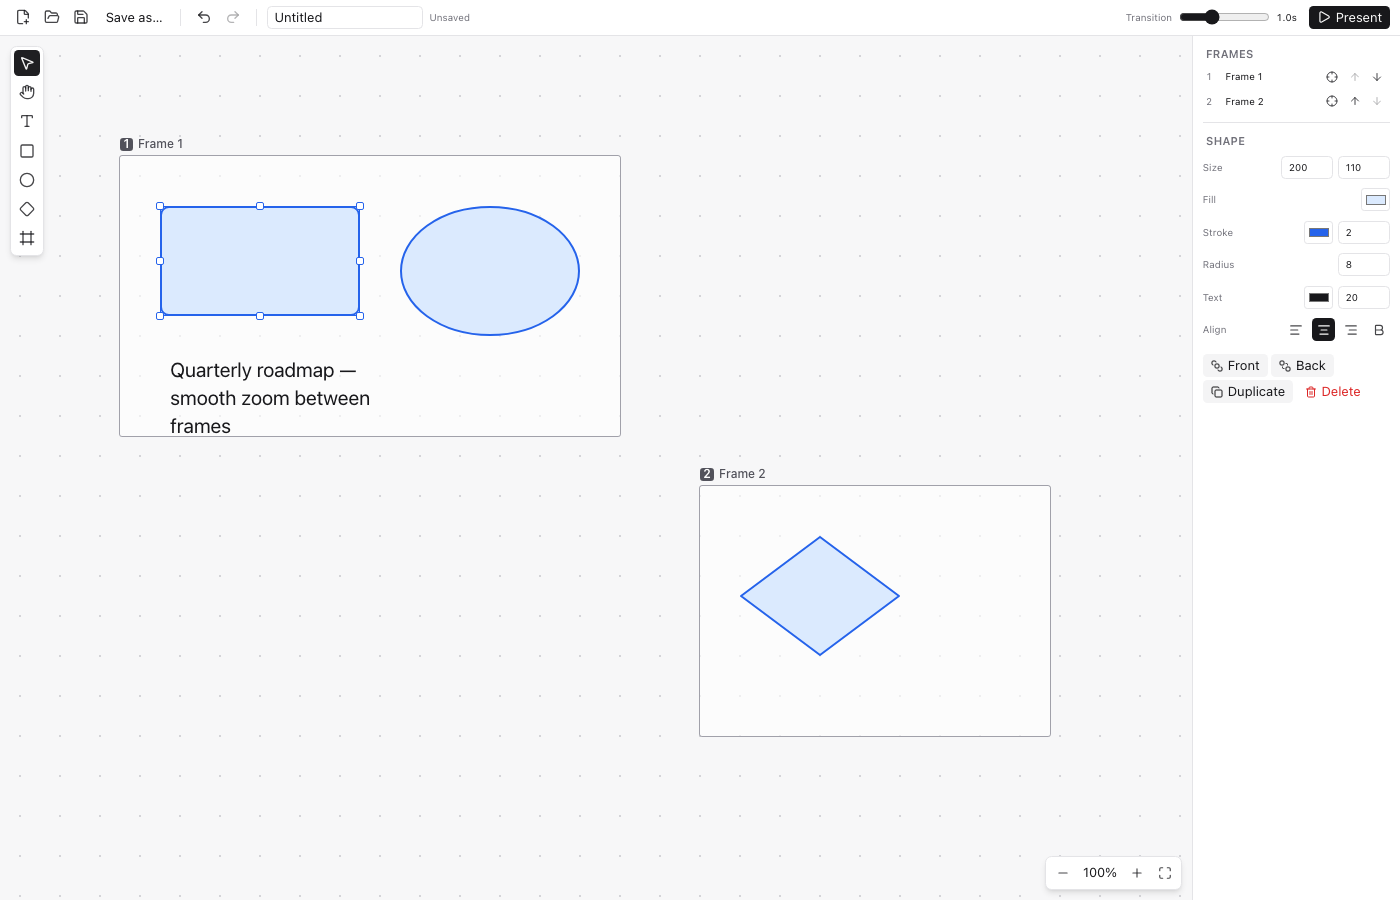
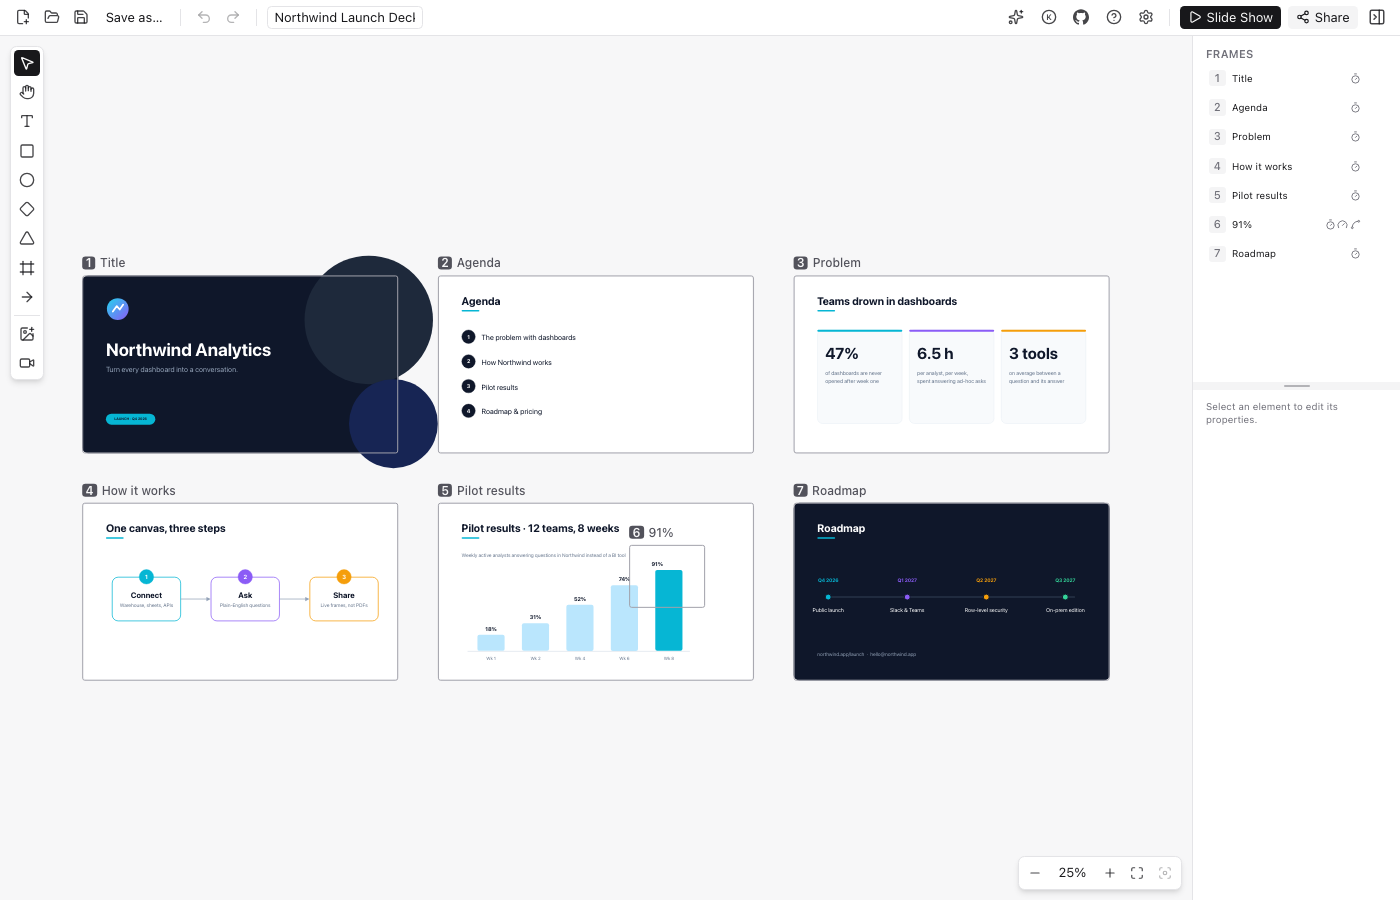
Refresh the editor screenshots from the current app
website/public/images/editor.png and present.png still showed an early prototype with a "Present"
button. The script that made them, tests/tools/screenshot-demo.mjs, was referenced nowhere and no
longer ran against the current UI, and docs/screenshots/ held unreferenced copies of the same images.

website/scripts/prepare-screenshots.ts starts the web editor with Vite, opens the Northwind launch
deck from the example catalog and captures the editor and the slideshow with its controls shown. Both
images are regenerated with it; the old script and the unreferenced copies are removed.

diff --git a/website/scripts/prepare-screenshots.ts b/website/scripts/prepare-screenshots.ts
@@ -1,0 +1,56 @@
+import { resolve } from 'node:path'
+import { chromium, expect } from '@playwright/test'
+import { createServer } from 'vite'
+
+const root = resolve(import.meta.dirname, '../..')
+const output = resolve(root, 'website/public/images')
+const server = await createServer({
+  configFile: resolve(root, 'config/vite.config.ts'),
+  server: { port: 0, strictPort: false },
+  logLevel: 'warn'
+})
+await server.listen()
+const baseURL = server.resolvedUrls?.local[0]
+if (!baseURL) {
+  throw new Error('The editor dev server has no local URL')
+}
+const browser = await chromium.launch()
+try {
+  const page = await browser.newPage({
+    baseURL,
+    viewport: { width: 1400, height: 900 },
+    locale: 'en-US',
+    colorScheme: 'light',
+    reducedMotion: 'reduce'
+  })
+  await page.goto('./?example=slides')
+  await expect(page.getByRole('textbox', { name: 'Document name' })).toHaveValue(
+    'Northwind Launch Deck',
+    { timeout: 30_000 }
+  )
+  await page.evaluate(() => document.fonts.ready)
+  await page.screenshot({ path: resolve(output, 'editor.png'), animations: 'disabled' })
+  await page.getByRole('button', { name: 'Slide Show', exact: true }).click()
+  await expect(page.getByTestId('presentation-counter')).toContainText('1 / ')
+  // Why poll: the slideshow opens on the whole canvas and only then moves to the first frame.
+  const world = page.getByTestId('world-layer')
+  let settled = ''
+  await expect
+    .poll(
+      async () => {
+        const transform = await world.evaluate((element) => element.style.transform)
+        const stable = transform === settled
+        settled = transform
+        return stable
+      },
+      { intervals: [500] }
+    )
+    .toBe(true)
+  // Why the bottom edge: controls start hidden and only that edge or Tab reveals them.
+  await page.mouse.move(10, 896)
+  await expect(page.getByTestId('presentation-controls')).toBeVisible()
+  await page.screenshot({ path: resolve(output, 'present.png'), animations: 'disabled' })
+} finally {
+  await browser.close()
+  await server.close()
+}

diff --git a/website/README.md b/website/README.md
@@ -102,6 +102,13 @@ node website/scripts/prepare-examples.ts
 
 The preparation script uses Playwright Chromium to capture the same exports, including a full-resolution crop of the results slide for the detail demonstration. It waits for camera motion to settle before capturing and records only whole slides, not detail frames nested inside them, as overview regions.
 
+The editor and slideshow screenshots in `public/images/` (`editor.png`, `present.png`) come from the web editor with the Northwind launch deck open. Refresh them when the editor or presentation UI changes:
+
+```bash
+pnpm build:player
+node website/scripts/prepare-screenshots.ts
+```
+
 ## GitHub Pages
 
 1. On `hwantage/CanvaSlide`, select **Settings → Pages → Build and deployment → Source → GitHub Actions**.
